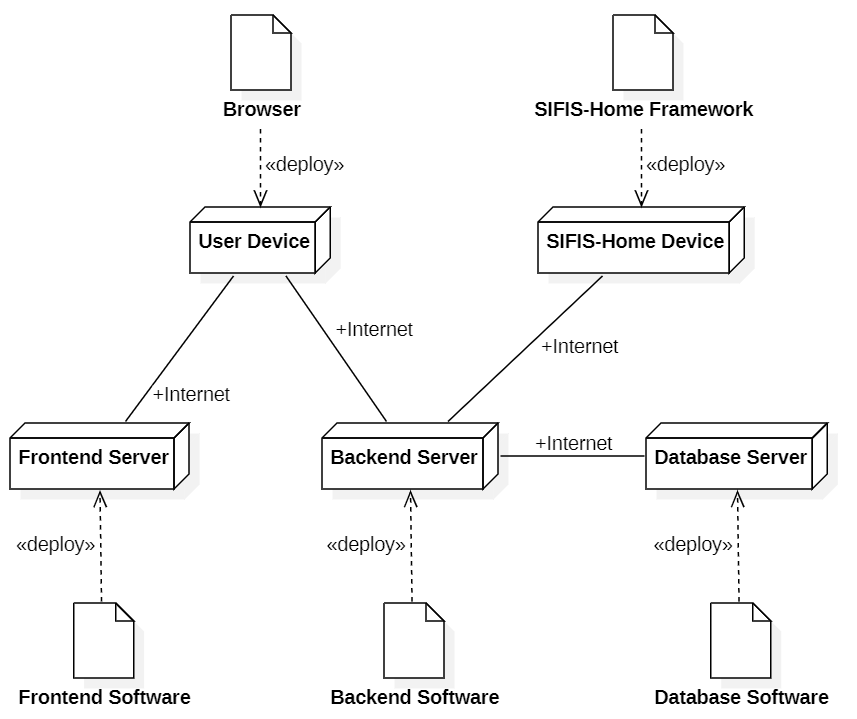
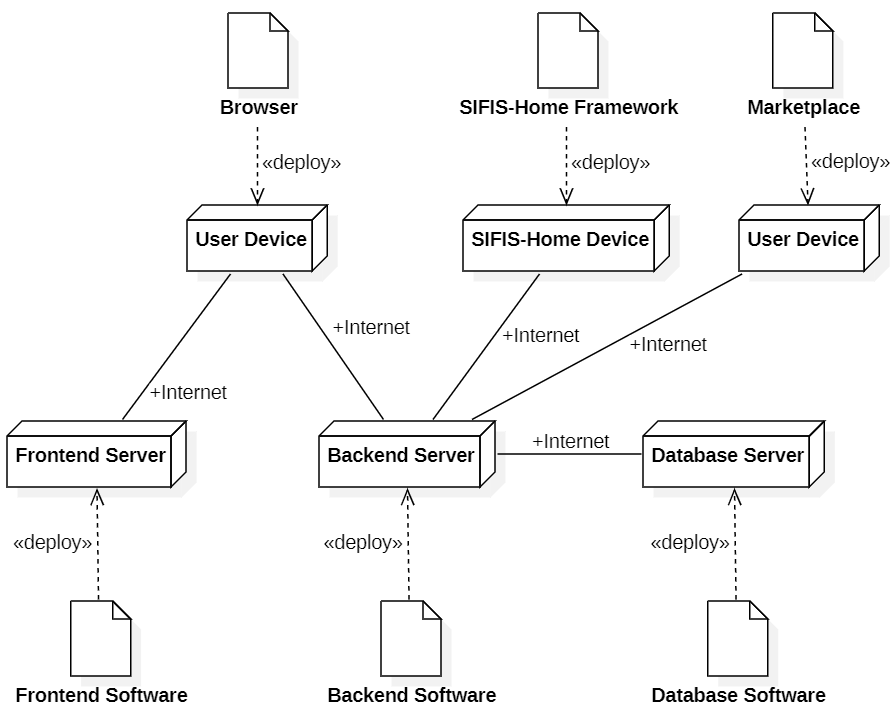
docs: updated requirements document to include more functionalites

diff --git a/docs/RequirementsDocument.md b/docs/RequirementsDocument.md
@@ -43,6 +43,7 @@ A web application for dynamic privacy consent management integrated with a smart
     - [Use Case 9, Manage Applications - Data Subject (UC9)](#use-case-9-manage-applications---data-subject-uc9)
       - [Scenario 9.1](#scenario-91)
       - [Scenario 9.2](#scenario-92)
+      - [Scenario 9.3](#scenario-93)
     - [Use Case 10, Manage Privacy Notices - Data Controller or DPO (UC10)](#use-case-10-manage-privacy-notices---data-controller-or-dpo-uc10)
       - [Scenario 10.1](#scenario-101)
       - [Scenario 10.2](#scenario-102)
@@ -79,6 +80,7 @@ Privacy Dashboard is a web application designed with the main goal of dynamicall
 |  Data Controller         | User of the application who verifies compliance with the Data Subject's privacy preferences and GDPR regulations, handles privacy notices and interacts with Data Subjects, other Data Controllers and the Data Protection Officer |
 |  Data Protection Officer | User of the application who has similar privileges as Data Controller, but is unique to the application; that is, unlike Data Controller and Data Subject, there can only be one user with this role |
 |    SIFIS-Home            | External framework that allows to dynamically configure IoT devices in the smart home and interacts with Privacy Dashboard through dedicated APIs                             |
+|    Marketplace           | External framework that allows Data Controllers and Data Protection Officers to manage their applications and interacts with Privacy Dashboard through dedicated APIs         |
 |  Administrator           |                       Person who owns and manages the application                                                                                                             |
 |    Developer             |                       Person who develops and maintains the application                                                                                                       |
 
@@ -97,6 +99,7 @@ Privacy Dashboard is a web application designed with the main goal of dynamicall
 | Data Controller         | Personal computing device  |         GUI        |
 | Data Protection Officer | Personal computing device  |         GUI        |
 |    SIFIS-Home           | Internet connection        |         API        |
+|    Marketplace          | Internet connection        |         API        |
 
 ## Requirements
 
@@ -138,8 +141,16 @@ Privacy Dashboard is a web application designed with the main goal of dynamicall
 |  FR5.4  | Enable Data Subject to see a list of all the SIFIS-Home applications which are currently processing their data. |
 | FR5.5 | Enable Data Subject to access details of each application in the list, including the application's name, description, evaluation, Privacy Notice, the list of all data controllers and DPO involved in the processing of their data, and the list of consenses he has provided. |
 | FR5.6 | Enable Data Subject to download, for each application in the list, the Privacy Notice and the document, including as a XML and as a JSON, containing the list of consenses he has provided. |
-| FR5.7 | Enable Data Subject to quickly and easily request the removal of all their personal data from a specific app. |
-| FR5.7.1 | Generate an automatic message to be sent to the relevant data controllers, requesting their data to be erased from the application. |
+| FR5.7 | Enable Data Subject to give consenses to a specific application by choosing from the application's predefined list of available consenses. |
+| FR5.8 | Enable Data Subject to quickly and easily request the withdrawal of selected consenses from a specific app. |
+| FR5.8.1 | Generate an automatic message to be sent to the relevant data controllers, requesting their selected consenses to be withdrawn from the application. |
+| FR5.9 | Enable Data Subject to quickly and easily request the withdrawal of all their given consenses from a specific app. |
+| FR5.9.1 | Generate an automatic message to be sent to the relevant data controllers, requesting all their consenses to be withdrawn from the application. |
+| FR5.10  | Enable the Data Subject to quickly and easily request the removal of all their personal data from a specific app. |
+| FR5.10.1 | Generate an automatic message to be sent to the relevant data controllers, requesting their data to be erased from the application. |
+| FR5.11 | Enable the SIFIS-Home framework to automatically add an application to the list of SIFIS-Home applications of a Data Subject when the Data Subject installs it in the SIFIS-Home framework. |
+| FR5.12 | Enable the SIFIS-Home framework to automatically request the removal of an application from the list of SIFIS-Home applications of a Data Subject when the Data Subject uninstalls it from the SIFIS-Home framework. |
+| FR5.13 | Enable the Marketplace framework to automatically add an application to the list of SIFIS-Home applications of a Data Controller or DPO when the Data Controller or DPO installs it from the Marketplace framework. |
 | **FR6** |                       **Manage Privacy Notices**                       |
 | FR6.1   | Enable the Data Controller and DPO to see a list of applications for which he is responsible along with their associated privacy notices, if any. |
 | FR6.2   | Enable Data Controller and DPO to edit an existing privacy notice associated to an application. |
@@ -489,17 +500,17 @@ Privacy Dashboard is a web application designed with the main goal of dynamicall
 | Actors Involved  |        Data Subject       |
 | :--------------: | :----------------: |
 |   Precondition   |   User U is logged in as Data Subject    |
-|  Post condition | U has requested the removal of all their personal data from a specific app |
+|  Post condition | U has requested the removal of all their personal data from a specific application or has performed other actions regarding a specific application |
 | Nominal Scenario |    Scenario 9.1    |
-|     Variants     |    Scenario 9.2    |
+|     Variants     |    Scenario 9.2, Scenario 9.3    |
 |    Exceptions    |                    |
 
 ##### Scenario 9.1
 
-| Scenario 9.1   |                   Data Subject requests the removal of all their personal data from a specific app                 |
+| Scenario 9.1   |                   Data Subject requests the removal of all their personal data from a specific application                 |
 | -------------- | :-----------------------------------------: |
 | Precondition   |               U is logged in as Data Subject                |
-| Post condition |               U has requested the removal of all their personal data from a specific app               |
+| Post condition |               U has requested the removal of all their personal data from a specific application               |
 | Step#          |                 Description                 |
 | 1              |             Data Subject: Selects a particular application from the list of applications  which are currently processing their data  |
 | 2              |      System: Opens the details of the selected application      |
@@ -522,6 +533,20 @@ Privacy Dashboard is a web application designed with the main goal of dynamicall
 | 4              |   System: Prompts the Data Subject to download the Privacy Notice of the selected application.       |
 | 5              |   Data Subject: Clicks the button to download the document containing the list of consenses he has provided and chooses the format of the document     |
 | 6              |   System: Prompts the Data Subject to download the document containing the list of consenses he has provided in the selected format.     |
+
+##### Scenario 9.3
+
+| Scenario 9.3   |                   Data Subject gives one or more consenses to a specific application.                 |
+| -------------- | :-----------------------------------------: |
+| Precondition   |               U is logged in as Data Subject                |
+| Post condition |               U has given one or more consenses to a specific application               |
+| Step#          |                 Description                 |
+| 1              |             Data Subject: Selects a particular application from the list of applications  which are currently processing their data  |
+| 2              |      System: Opens the details of the selected application      |
+| 3              |   Data Subject: Clicks on the "Add consenses" button   |
+| 4              |   System: Prompts the Data Subject to choose the consenses he wants to give from the list of available consenses of the selected application.       |
+| 5              |   Data Subject: Selects the consenses he wants to give and clicks the button to confirm.     |
+| 6              |   System: Saves the new consenses.     |
 
 #### Use Case 10, Manage Privacy Notices - Data Controller or DPO (UC10)
 
